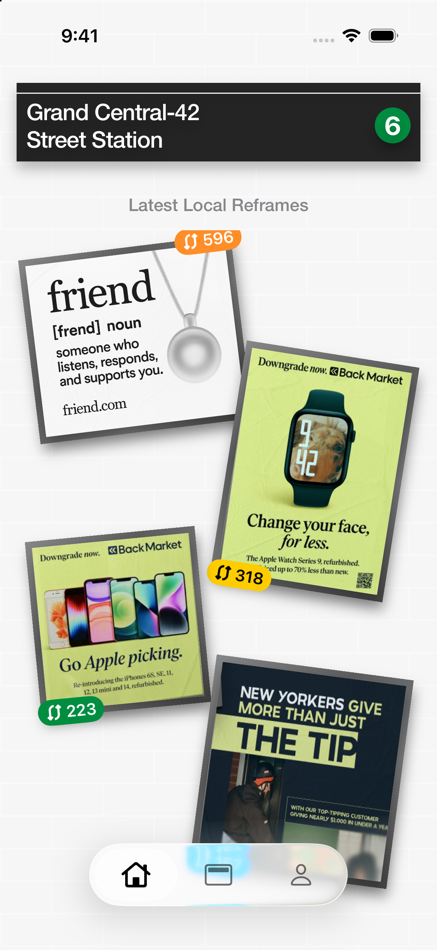
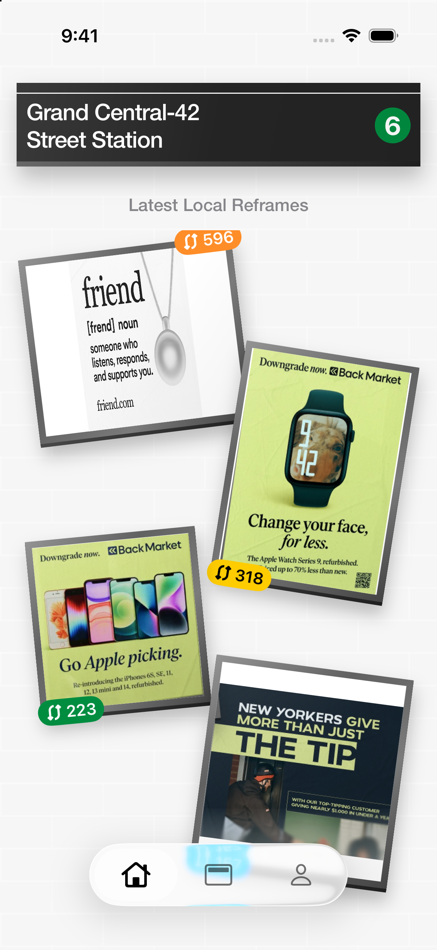
Preserve poster proportions and add motion-responsive surface depth

diff --git a/Adit/ArtworkView.swift b/Adit/ArtworkView.swift
@@ -1,3 +1,4 @@
+import CoreMotion
 import SwiftUI
 
 struct PosterFace: View {
@@ -5,7 +6,10 @@ struct PosterFace: View {
   var body: some View {
     ZStack {
       Color.white
-      Image(asset).resizable()
+      GeometryReader { geometry in
+        Image(asset).resizable().scaledToFit()
+          .frame(width: geometry.size.width, height: geometry.size.height)
+      }
       Image("paper").resizable().opacity(0.14).blendMode(.multiply).allowsHitTesting(false)
     }.clipped()
   }
@@ -19,7 +23,7 @@ struct MetalFrame<Content: View>: View {
         colors: [Color(white: 0.53), Color(white: 0.36), Color(white: 0.49), Color(white: 0.28)],
         startPoint: .topLeading, endPoint: .bottomTrailing)
     )
-    .shadow(color: .black.opacity(0.32), radius: 6, x: 2, y: 8)
+    .modifier(FloatingSurface(depth: 5, strength: 0.65))
   }
 }
 struct Mark: View {
@@ -143,24 +147,36 @@ struct ArtworkSurface: View, Equatable {
   let art: Artwork
   var now = Date()
   var body: some View {
-    GeometryReader { geo in
-      ZStack(alignment: .topLeading) {
-        PosterFace(asset: art.base)
-        if art.base == "friend" && art.layers.contains(where: { $0.replacesHeadline == true }) {
-          Rectangle().fill(Color(white: 0.993))
-            .frame(width: geo.size.width * 0.56, height: geo.size.height * 0.245)
-            .position(x: geo.size.width * 0.348, y: geo.size.height * 0.187)
-        }
-        ForEach(art.layers) { layer in
-          if layer.kind == .ink {
-            Mark(layer: layer, canvas: geo.size, now: now)
-          } else {
-            Mark(layer: layer, canvas: geo.size, now: now)
-              .rotationEffect(.degrees(layer.rotation)).position(layer.position.at(geo.size))
-          }
-        }
-      }.clipped()
+    GeometryReader { viewport in
+      let source = UIImage(named: art.base)?.size ?? viewport.size
+      let scale = min(
+        viewport.size.width / max(1, source.width),
+        viewport.size.height / max(1, source.height))
+      let size = CGSize(width: source.width * scale, height: source.height * scale)
+      ZStack {
+        Color.white
+        composition(size: size).frame(width: size.width, height: size.height)
+      }
     }.aspectRatio(art.ratio, contentMode: .fit)
+  }
+
+  private func composition(size: CGSize) -> some View {
+    ZStack(alignment: .topLeading) {
+      PosterFace(asset: art.base)
+      if art.base == "friend" && art.layers.contains(where: { $0.replacesHeadline == true }) {
+        Rectangle().fill(Color(white: 0.993))
+          .frame(width: size.width * 0.56, height: size.height * 0.245)
+          .position(x: size.width * 0.348, y: size.height * 0.187)
+      }
+      ForEach(art.layers) { layer in
+        if layer.kind == .ink {
+          Mark(layer: layer, canvas: size, now: now)
+        } else {
+          Mark(layer: layer, canvas: size, now: now)
+            .rotationEffect(.degrees(layer.rotation)).position(layer.position.at(size))
+        }
+      }
+    }.clipped()
   }
 }
 @MainActor func shareImage(_ art: Artwork) -> UIImage? {
@@ -217,7 +233,7 @@ struct Sign: View {
     }.foregroundStyle(.white).padding(.horizontal, 9).padding(.top, 14).padding(.bottom, 8)
       .frame(maxWidth: .infinity, alignment: .leading).background(Color(white: 0.14))
       .overlay(alignment: .top) { Rectangle().fill(.white).frame(height: 1).padding(.top, 9) }
-      .shadow(color: .black.opacity(0.26), radius: 6, y: 7)
+      .modifier(FloatingSurface(depth: 7, strength: 1))
   }
 }
 struct BlackButton: View {
@@ -229,5 +245,105 @@ struct BlackButton: View {
         .vertical, 13
       ).background(.black, in: Capsule())
     }.buttonStyle(.plain)
+  }
+}
+
+/// One shared motion stream for the scene, stopped when inactive or motion is reduced.
+@MainActor final class SurfaceMotion: ObservableObject {
+  @Published private(set) var tilt = CGSize.zero
+  private let manager = CMMotionManager()
+  private var reference: CMAttitude?
+
+  func start() {
+    guard manager.isDeviceMotionAvailable, !manager.isDeviceMotionActive else { return }
+    reference = nil
+    manager.deviceMotionUpdateInterval = 1.0 / 30
+    manager.startDeviceMotionUpdates(using: .xArbitraryZVertical, to: .main) {
+      [weak self] sample, _ in
+      guard let self, let sample else { return }
+      guard let reference = self.reference else {
+        self.reference = sample.attitude.copy() as? CMAttitude
+        return
+      }
+      guard let attitude = sample.attitude.copy() as? CMAttitude else { return }
+      attitude.multiply(byInverseOf: reference)
+      let x = max(-1, min(1, attitude.roll / 0.45))
+      let y = max(-1, min(1, attitude.pitch / 0.45))
+      let next = CGSize(
+        width: self.tilt.width * 0.82 + x * 0.18,
+        height: self.tilt.height * 0.82 + y * 0.18)
+      if abs(next.width - self.tilt.width) + abs(next.height - self.tilt.height) > 0.002 {
+        self.tilt = next
+      }
+    }
+  }
+
+  func stop() {
+    manager.stopDeviceMotionUpdates()
+    reference = nil
+    tilt = .zero
+  }
+}
+
+private struct FloatingSurface: ViewModifier {
+  @EnvironmentObject private var motion: SurfaceMotion
+  @Environment(\.accessibilityReduceMotion) private var reduceMotion
+  @State private var preview = CGSize.zero
+  let depth: CGFloat
+  let strength: Double
+
+  func body(content: Content) -> some View {
+    let tilt =
+      reduceMotion
+      ? CGSize.zero
+      : CGSize(
+        width: (motion.tilt.width + preview.width) * strength,
+        height: (motion.tilt.height + preview.height) * strength)
+    content
+      .overlay {
+        LinearGradient(
+          colors: [.white.opacity(0.10 + max(0, tilt.width) * 0.10), .clear, .black.opacity(0.05)],
+          startPoint: .topLeading, endPoint: .bottomTrailing
+        )
+        .allowsHitTesting(false)
+      }
+      .background {
+        ForEach(1...Int(depth), id: \.self) { step in
+          Rectangle()
+            .fill(
+              LinearGradient(
+                colors: [Color(white: 0.42), Color(white: 0.12)],
+                startPoint: .topLeading, endPoint: .bottomTrailing)
+            )
+            .offset(
+              x: tilt.width * CGFloat(step) * 0.8,
+              y: CGFloat(step) * (0.65 + tilt.height * 0.45))
+        }
+      }
+      .rotation3DEffect(.degrees(-tilt.height * 7), axis: (x: 1, y: 0, z: 0), perspective: 0.35)
+      .rotation3DEffect(.degrees(tilt.width * 9), axis: (x: 0, y: 1, z: 0), perspective: 0.35)
+      .offset(x: tilt.width * 2, y: tilt.height * 2)
+      .shadow(
+        color: .black.opacity(0.24), radius: depth + 3,
+        x: 2 - tilt.width * 7, y: depth + 4 - tilt.height * 5
+      )
+      .simultaneousGesture(previewGesture)
+  }
+
+  private var previewGesture: some Gesture {
+    DragGesture(minimumDistance: 12)
+      .onChanged { value in
+        #if targetEnvironment(simulator)
+          guard !reduceMotion else { return }
+          preview = CGSize(
+            width: max(-1, min(1, value.translation.width / 100)),
+            height: max(-1, min(1, value.translation.height / 100)))
+        #endif
+      }
+      .onEnded { _ in
+        withAnimation(reduceMotion ? nil : .spring(response: 0.4, dampingFraction: 0.8)) {
+          preview = .zero
+        }
+      }
   }
 }

diff --git a/Adit/AditApp.swift b/Adit/AditApp.swift
@@ -3,9 +3,17 @@ import UserNotifications
 
 @main struct AditApp: App {
   @StateObject private var store = Store()
+  @StateObject private var motion = SurfaceMotion()
+  @Environment(\.scenePhase) private var phase
+  @Environment(\.accessibilityReduceMotion) private var reduceMotion
   init() { UNUserNotificationCenter.current().delegate = NotificationHandler.shared }
   var body: some Scene {
-    WindowGroup { Shell().environmentObject(store).preferredColorScheme(.light) }
+    WindowGroup {
+      Shell().environmentObject(store).environmentObject(motion).preferredColorScheme(.light)
+        .task(id: "\(phase)-\(reduceMotion)") {
+          if phase == .active && !reduceMotion { motion.start() } else { motion.stop() }
+        }
+    }
   }
 }
 enum Destination: String, CaseIterable {

diff --git a/Adit/EditorView.swift b/Adit/EditorView.swift
@@ -51,7 +51,11 @@ struct EditorView: View {
   @FocusState private var promptFocused: Bool
   let onExit: () -> Void, onPublish: (Artwork) -> Void
   init(initial: Artwork, onExit: @escaping () -> Void, onPublish: @escaping (Artwork) -> Void) {
-    _art = State(initialValue: initial)
+    var aligned = initial
+    if let size = UIImage(named: initial.base)?.size, size.height > 0 {
+      aligned.ratio = size.width / size.height
+    }
+    _art = State(initialValue: aligned)
     self.onExit = onExit
     self.onPublish = onPublish
   }

diff --git a/Research/Coverage.md b/Research/Coverage.md
@@ -61,3 +61,11 @@ The editor clock refreshes once per second instead of every 180 milliseconds. Un
 The second verification round passed all four XCTest journeys on the iPhone 17 Pro simulator. The added journey verifies that poster bounds stay fixed during rotation, Explore preserves its scroll position, the pill supports drag navigation, and rapid tab switches remain usable. The round also corrected duplicate native tab-bar targets, poster hit bounds during motion, and the draft deletion test's confirmation-sheet targeting. Draft controls now have a 44-point delete target.
 
 A final simulator recording was sampled through several ad changes. [Rolling.mp4](Simulator/Rolling.mp4) shows the upward transition inside stationary frames. The final glass navigation and restored tiled surface are visible in [Station.png](Simulator/Station.png). Performance changes were checked in the simulator. Physical-device frame-rate and energy profiling remain unmeasured.
+
+## Proportions and floating surfaces
+
+Poster artwork now fits proportionally into its viewport, including rotating variants with different source dimensions. Existing normalized edit layers share that fitted coordinate system. Opening the editor adopts the source image's natural canvas ratio so new selections remain aligned.
+
+Station signs and metal frames have raised edges, perspective transforms, directional highlights and offset shadows. One shared Core Motion stream supplies filtered, bounded tilt at up to 30 updates per second, stops in inactive scenes and respects Reduce Motion. Simulator users can drag a sign or frame to preview its depth; the preview springs back on release. Motion support is declared in the app's usage description.
+
+All four simulator journeys passed after these changes. Physical iPhone gyroscope response remains unverified. The depth direction follows the supplied McLane card reference and its dimensional board treatment.

diff --git a/README.md b/README.md
@@ -15,6 +15,8 @@ A native iPhone app for remixing subway ads during a commute. The opening statio
 
 Open **Adit.xcodeproj** in Xcode, select the **Adit** scheme, choose an iPhone simulator and press **⌘R**. The deployment target is iOS 17. The project includes its assets and has no package dependencies. To install on a physical iPhone, select your development team in Signing & Capabilities and choose the connected phone as the run destination.
 
+Tilt an iPhone to reveal the raised edges of station signs and poster frames. In Simulator, drag a sign or frame to preview the perspective. Reduce Motion keeps the surfaces still.
+
 ## Try the original journey
 
 1. Tap the Friend poster with the orange **596** badge. Swipe between the campaign formats and select **Reframe**.
